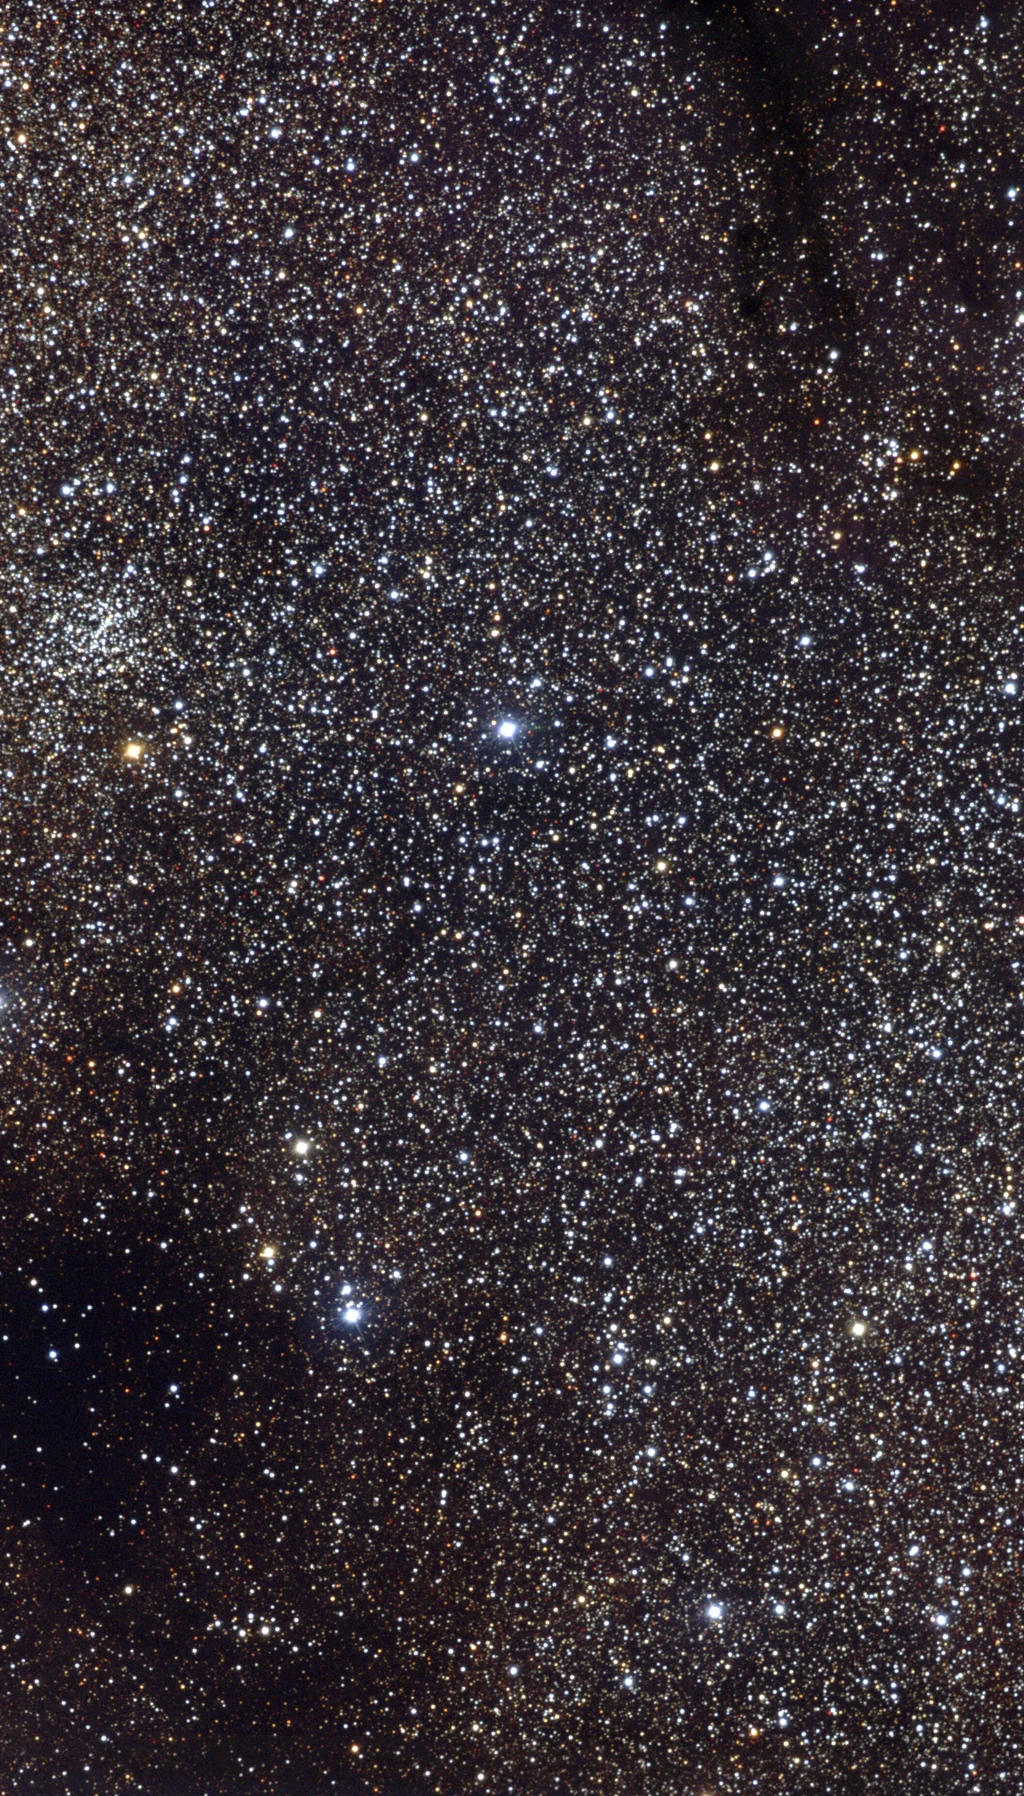
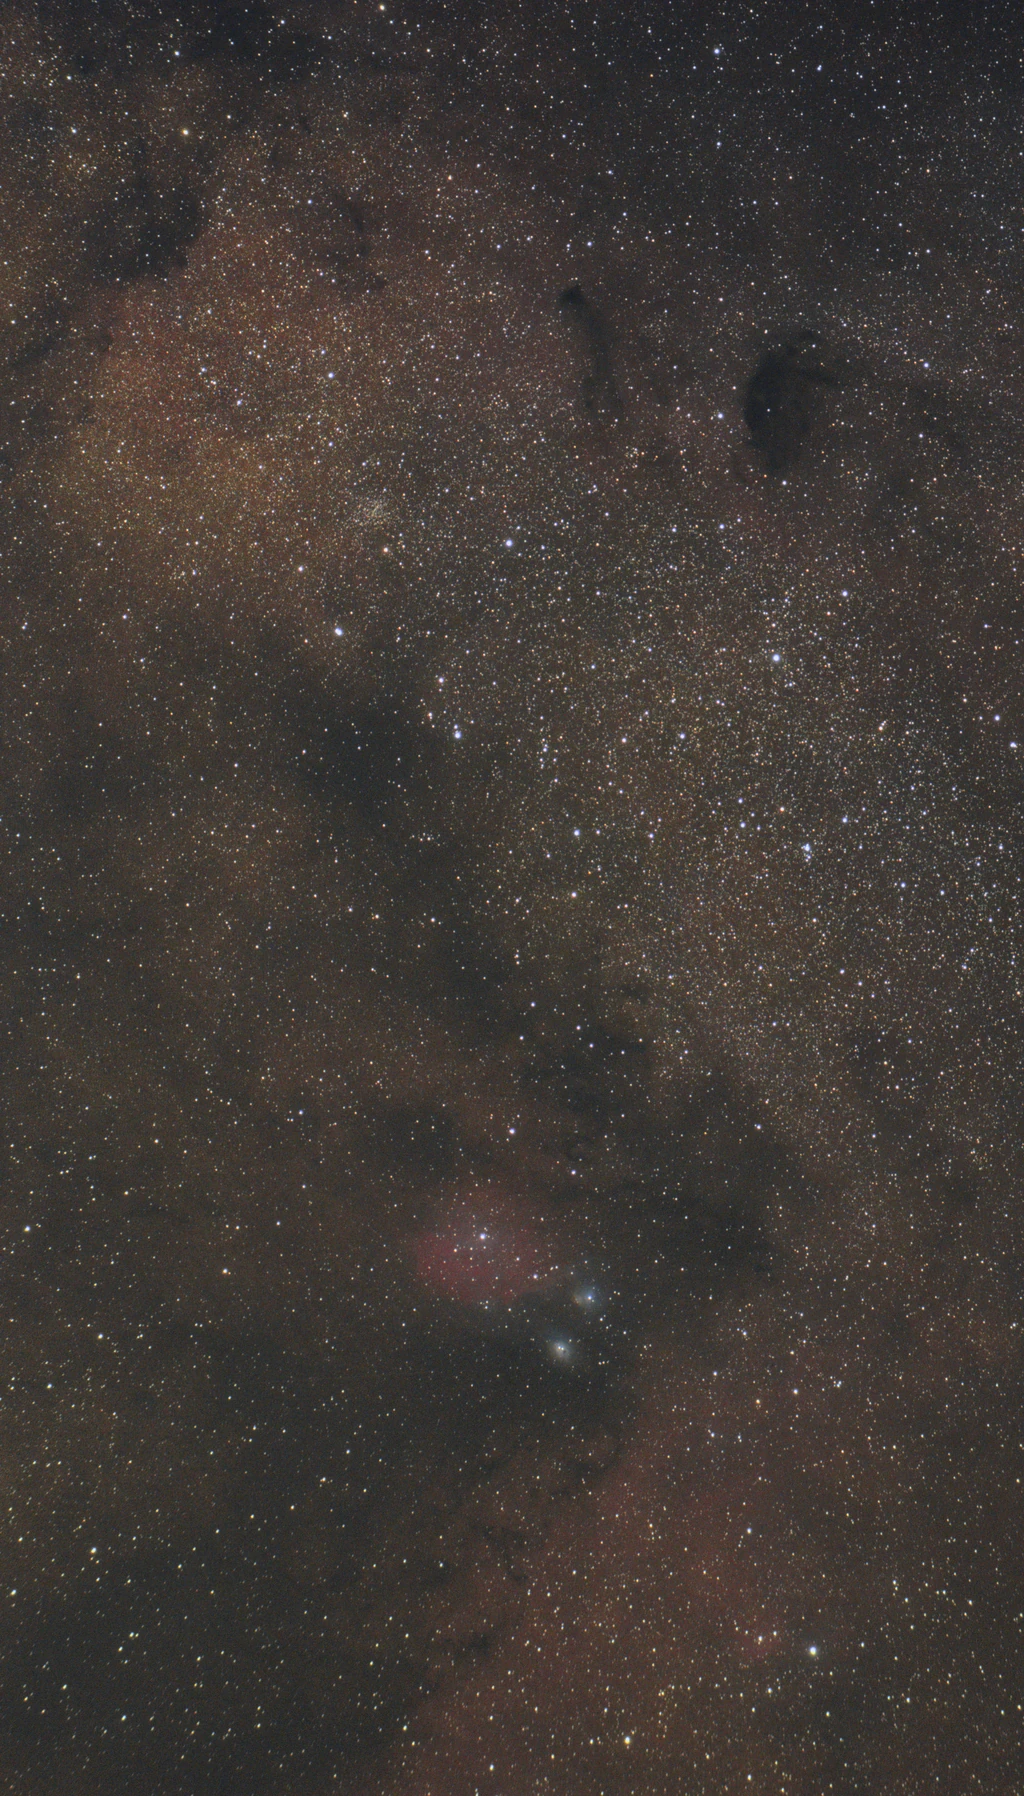
Sync catalog and update M24 star cloud art

diff --git a/scripts/test_catalog_sync.py b/scripts/test_catalog_sync.py
@@ -1,5 +1,6 @@
 from __future__ import annotations
 
+import argparse
 import importlib.util
 import json
 import sys
@@ -105,6 +106,29 @@ class CatalogSyncTest(unittest.TestCase):
             )
         ]
 
+    def build_result_sheet(
+        self,
+        extensions,
+        cards,
+        variant_profiles,
+        balance_data,
+        equipment_cards,
+    ):
+        raw_rows = self.catalog_sync.build_results_sheet_rows(
+            extensions=extensions,
+            cards=cards,
+            variant_profiles=variant_profiles,
+            balance_data=balance_data,
+            equipment_cards=equipment_cards,
+        )
+        return self.catalog_sync.Sheet(
+            self.catalog_sync.RESULTS_SHEET_NAME,
+            [
+                ["" if value is None else str(value) for value in row]
+                for row in raw_rows
+            ],
+        )
+
     def test_export_then_apply_preserves_raw_catalog_and_balance(self):
         temp_dir, catalog_dir = self.create_temp_catalog_dir()
         workbook_path = temp_dir / "catalogue.xlsx"
@@ -135,6 +159,26 @@ class CatalogSyncTest(unittest.TestCase):
             {"Catalogue", "Donnees", "Equipements", "Resultats"},
             set(self.read_sheets(workbook_path).keys()),
         )
+
+    def test_apply_does_not_rewrite_workbook(self):
+        temp_dir, catalog_dir = self.create_temp_catalog_dir()
+        workbook_path = temp_dir / "catalogue.xlsx"
+        self.export_workbook(workbook_path, catalog_dir)
+
+        sheets = self.read_sheets(workbook_path)
+        data_sheet = sheets[self.catalog_sync.DATA_SHEET_NAME]
+        self.set_cell(data_sheet, 19, 1, "EquipmentChancePercent")
+        self.set_cell(data_sheet, 19, 2, "7.5")
+        self.write_sheets(workbook_path, sheets)
+
+        workbook_bytes_before_apply = workbook_path.read_bytes()
+        self.catalog_sync.apply_workbook(workbook_path, catalog_dir)
+
+        self.assertEqual(workbook_bytes_before_apply, workbook_path.read_bytes())
+
+    def test_export_command_is_read_only_error(self):
+        with self.assertRaisesRegex(self.catalog_sync.CatalogSheetError, "read-only"):
+            self.catalog_sync.handle_export(argparse.Namespace(sheet=Path("catalogue.xlsx")))
 
     def test_apply_rejects_non_positive_city_probability(self):
         temp_dir, catalog_dir = self.create_temp_catalog_dir()
@@ -190,8 +234,17 @@ class CatalogSyncTest(unittest.TestCase):
         self.set_catalogue_value(catalogue, "aeh-m42-orion-nebula", "cardRarityMultiplier", "1")
         self.write_sheets(workbook_path, sheets)
 
-        self.catalog_sync.apply_workbook(workbook_path, catalog_dir)
-        result_sheet = self.read_sheets(workbook_path)[self.catalog_sync.RESULTS_SHEET_NAME]
+        extensions, cards, variant_profiles, balance_data, equipment_cards, _ = self.catalog_sync.apply_workbook(
+            workbook_path,
+            catalog_dir,
+        )
+        result_sheet = self.build_result_sheet(
+            extensions=extensions,
+            cards=cards,
+            variant_profiles=variant_profiles,
+            balance_data=balance_data,
+            equipment_cards=equipment_cards,
+        )
         rows = self.section_rows(result_sheet, "Cards")
         probabilities_by_id = {
             row["cardId"]: float(row["finalProbability"])
@@ -263,8 +316,17 @@ class CatalogSyncTest(unittest.TestCase):
         catalogue.rows.append([epic_card.get(column, "") for column in header])
         self.write_sheets(workbook_path, sheets)
 
-        self.catalog_sync.apply_workbook(workbook_path, catalog_dir)
-        result_sheet = self.read_sheets(workbook_path)[self.catalog_sync.RESULTS_SHEET_NAME]
+        extensions, cards, variant_profiles, balance_data, equipment_cards, _ = self.catalog_sync.apply_workbook(
+            workbook_path,
+            catalog_dir,
+        )
+        result_sheet = self.build_result_sheet(
+            extensions=extensions,
+            cards=cards,
+            variant_profiles=variant_profiles,
+            balance_data=balance_data,
+            equipment_cards=equipment_cards,
+        )
         rarity_rows = [
             row for row in self.section_rows(result_sheet, "RaritySummary")
             if row["extensionId"] == "rare-et-epic"
@@ -292,7 +354,7 @@ class CatalogSyncTest(unittest.TestCase):
         with self.assertRaisesRegex(self.catalog_sync.CatalogSheetError, "must use bonusUnit"):
             self.catalog_sync.apply_workbook(workbook_path, catalog_dir)
 
-    def test_apply_persists_equipment_settings_and_results_section(self):
+    def test_apply_persists_equipment_settings_and_builds_equipment_diagnostics(self):
         temp_dir, catalog_dir = self.create_temp_catalog_dir()
         workbook_path = temp_dir / "catalogue.xlsx"
         self.export_workbook(workbook_path, catalog_dir)
@@ -303,13 +365,26 @@ class CatalogSyncTest(unittest.TestCase):
         self.set_cell(data_sheet, 19, 2, "7.5")
         self.write_sheets(workbook_path, sheets)
 
-        _, _, _, _, _, applied_equipment_settings = self.catalog_sync.apply_workbook(workbook_path, catalog_dir)
+        (
+            extensions,
+            cards,
+            variant_profiles,
+            balance_data,
+            equipment_cards,
+            applied_equipment_settings,
+        ) = self.catalog_sync.apply_workbook(workbook_path, catalog_dir)
         self.assertEqual(
             {"commonReplacementChancePercent": 7.5},
             self.catalog_sync.equipment_settings_to_json(applied_equipment_settings),
         )
 
-        result_sheet = self.read_sheets(workbook_path)[self.catalog_sync.RESULTS_SHEET_NAME]
+        result_sheet = self.build_result_sheet(
+            extensions=extensions,
+            cards=cards,
+            variant_profiles=variant_profiles,
+            balance_data=balance_data,
+            equipment_cards=equipment_cards,
+        )
         equipment_rows = self.section_rows(result_sheet, self.catalog_sync.RESULTS_EQUIPMENT_SECTION)
         self.assertTrue(equipment_rows)
         self.assertEqual(

diff --git a/scripts/catalog_sync.py b/scripts/catalog_sync.py
@@ -226,19 +226,19 @@ def main() -> int:
 
 def build_parser() -> argparse.ArgumentParser:
     parser = argparse.ArgumentParser(
-        description="Export or apply the astronomy catalog workbook.",
+        description="Synchronize the standalone catalog from the astronomy workbook.",
     )
     subparsers = parser.add_subparsers(dest="command", required=True)
 
     export_parser = subparsers.add_parser(
         "export",
-        help="Create or refresh the root XLSX workbook from the current standalone catalog.",
+        help="Legacy command kept for compatibility. The workbook is now treated as read-only.",
     )
     export_parser.add_argument(
         "--sheet",
         type=Path,
         default=DEFAULT_SHEET,
-        help=f"Workbook path to write (default: {DEFAULT_SHEET.name}).",
+        help=f"Workbook path to read (default: {DEFAULT_SHEET.name}).",
     )
     export_parser.set_defaults(handler=handle_export)
 
@@ -258,23 +258,10 @@ def build_parser() -> argparse.ArgumentParser:
 
 
 def handle_export(args: argparse.Namespace) -> None:
-    sheet_path = args.sheet.resolve()
-    extensions = load_json(CATALOG_DIR / "extensions.json")
-    cards = load_json(CATALOG_DIR / "cards.json")
-    variant_profiles = load_json(CATALOG_DIR / "variant_profiles.json")
-    balance_data = load_balance_data(BALANCE_PATH)
-    equipment_cards = load_equipment_cards_data(EQUIPMENT_CARDS_PATH)
-    equipment_settings = load_equipment_settings_data(EQUIPMENT_SETTINGS_PATH)
-    export_workbook(
-        sheet_path=sheet_path,
-        extensions=extensions,
-        cards=cards,
-        variant_profiles=variant_profiles,
-        balance_data=balance_data,
-        equipment_cards=equipment_cards,
-        equipment_settings=equipment_settings,
+    raise CatalogSheetError(
+        "The export command is no longer supported: catalog_sync now treats the workbook as read-only. "
+        "Use 'apply' to read the XLSX and refresh the application assets.",
     )
-    print(f"Workbook exported to {sheet_path}")
 
 
 def handle_apply(args: argparse.Namespace) -> None:
@@ -355,26 +342,6 @@ def apply_workbook(
     write_json(catalog_dir / "game_balance.json", balance_data_to_json(balance_data))
     write_json(catalog_dir / "equipment_cards.json", equipment_cards)
     write_json(catalog_dir / "equipment_settings.json", equipment_settings_to_json(equipment_settings))
-
-    refreshed_catalogue_rows = build_catalogue_sheet_rows_from_input(extensions, cards)
-    refreshed_data_rows = build_data_sheet_rows(balance_data, equipment_settings)
-    refreshed_equipment_rows = build_equipment_sheet_rows(equipment_cards)
-    refreshed_result_rows = build_results_sheet_rows(
-        extensions=extensions,
-        cards=cards,
-        variant_profiles=variant_profile_templates,
-        balance_data=balance_data,
-        equipment_cards=equipment_cards,
-    )
-    write_workbook(
-        sheet_path,
-        [
-            Sheet(CATALOGUE_SHEET_NAME, refreshed_catalogue_rows),
-            Sheet(DATA_SHEET_NAME, refreshed_data_rows),
-            Sheet(EQUIPMENT_SHEET_NAME, refreshed_equipment_rows),
-            Sheet(RESULTS_SHEET_NAME, refreshed_result_rows),
-        ],
-    )
 
     return extensions, cards, variant_profile_templates, balance_data, equipment_cards, equipment_settings
 

diff --git a/README.md b/README.md
@@ -190,18 +190,17 @@ Le classeur contient :
 - `Catalogue` : les extensions, les cartes et le multiplicateur `cardRarityMultiplier` ;
 - `Donnees` : les donnees brutes de balance synchronisees vers l'application, avec la ligne `EquipmentChancePercent` en `A19/B19` ;
 - `Equipements` : les cartes d'equipement data-driven ;
-- `Resultats` : une feuille diagnostique regeneree a chaque `export` ou `apply`.
+- `Resultats` : une feuille diagnostique optionnelle, ignoree par la synchronisation et jamais reecrite par le script.
 
-Exporter ou recharger le classeur :
+Synchroniser l'application depuis le classeur :
 
 ```bash
-python3 scripts/catalog_sync.py export --sheet catalogue_astronomie.xlsx
 python3 scripts/catalog_sync.py apply --sheet catalogue_astronomie.xlsx
 ```
 
 Le script n'a pas besoin de dependance Python externe : le support XLSX est embarque dans `scripts/simple_xlsx.py`.
 
-`python3 scripts/catalog_sync.py apply` lit `Catalogue`, `Donnees` et `Equipements`, ecrit `extensions.json`, `cards.json`, `variant_profiles.json`, `game_balance.json`, `equipment_cards.json` et `equipment_settings.json`, puis regenere `Resultats`. Les probabilites de cartes ne sont plus transferees depuis le classeur : elles sont recalculees dans l'application a partir des donnees brutes et des multiplicateurs de rarete.
+`python3 scripts/catalog_sync.py apply` lit `Catalogue`, `Donnees` et `Equipements`, ecrit `extensions.json`, `cards.json`, `variant_profiles.json`, `game_balance.json`, `equipment_cards.json` et `equipment_settings.json`, puis laisse le classeur strictement intact. Les probabilites de cartes ne sont plus transferees depuis le classeur : elles sont recalculees dans l'application a partir des donnees brutes et des multiplicateurs de rarete.
 
 Les tests du pipeline catalogue peuvent etre lances avec :
 

diff --git a/docs/equipment-system.md b/docs/equipment-system.md
@@ -73,7 +73,7 @@ Feuilles et sections :
 
 - `Equipements` : definitions data-driven des cartes d'equipement
 - `Donnees` / `EquipmentChancePercent` en `A19/B19` : regle globale de remplacement des slots `Common`
-- `Resultats` / `EquipmentCards` : sortie diagnostique regeneree
+- `Resultats` / `EquipmentCards` : sortie diagnostique legacy eventuellement presente dans le classeur, mais ignoree par la synchronisation
 
 Colonnes de `Equipements` :
 
@@ -94,3 +94,5 @@ Le pipeline `scripts/catalog_sync.py apply --sheet catalogue_astronomie.xlsx` re
 
 - `app/src/main/assets/catalog/equipment_cards.json`
 - `app/src/main/assets/catalog/equipment_settings.json`
+
+Le script lit le classeur en lecture seule et ne reecrit jamais `catalogue_astronomie.xlsx`.